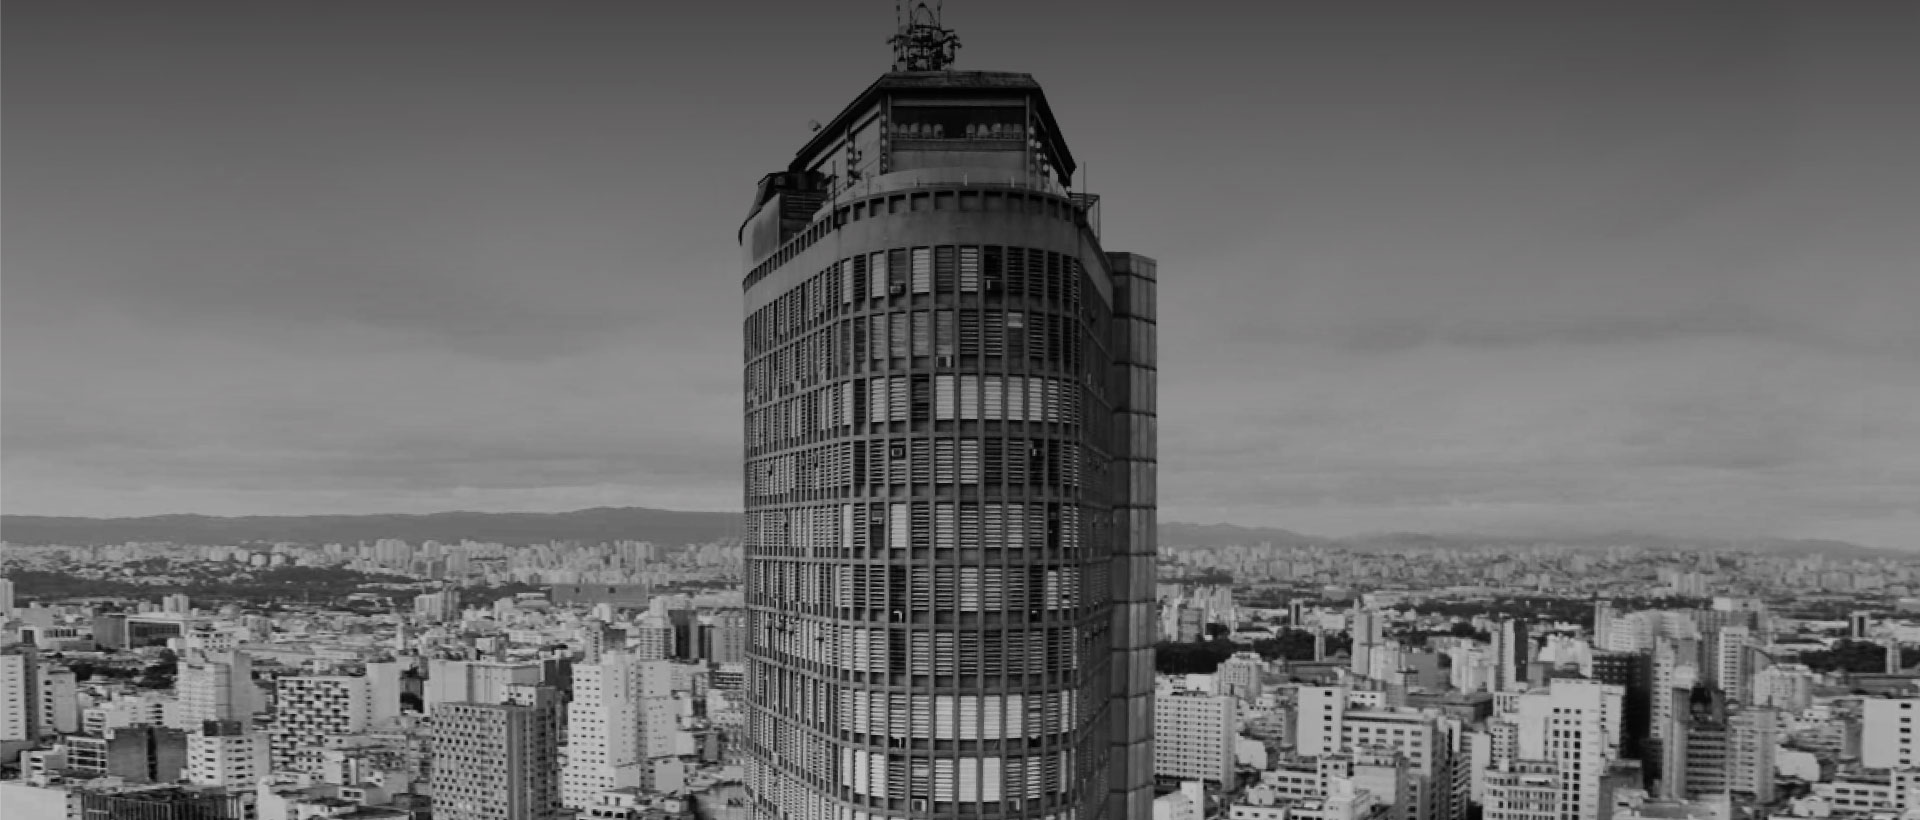
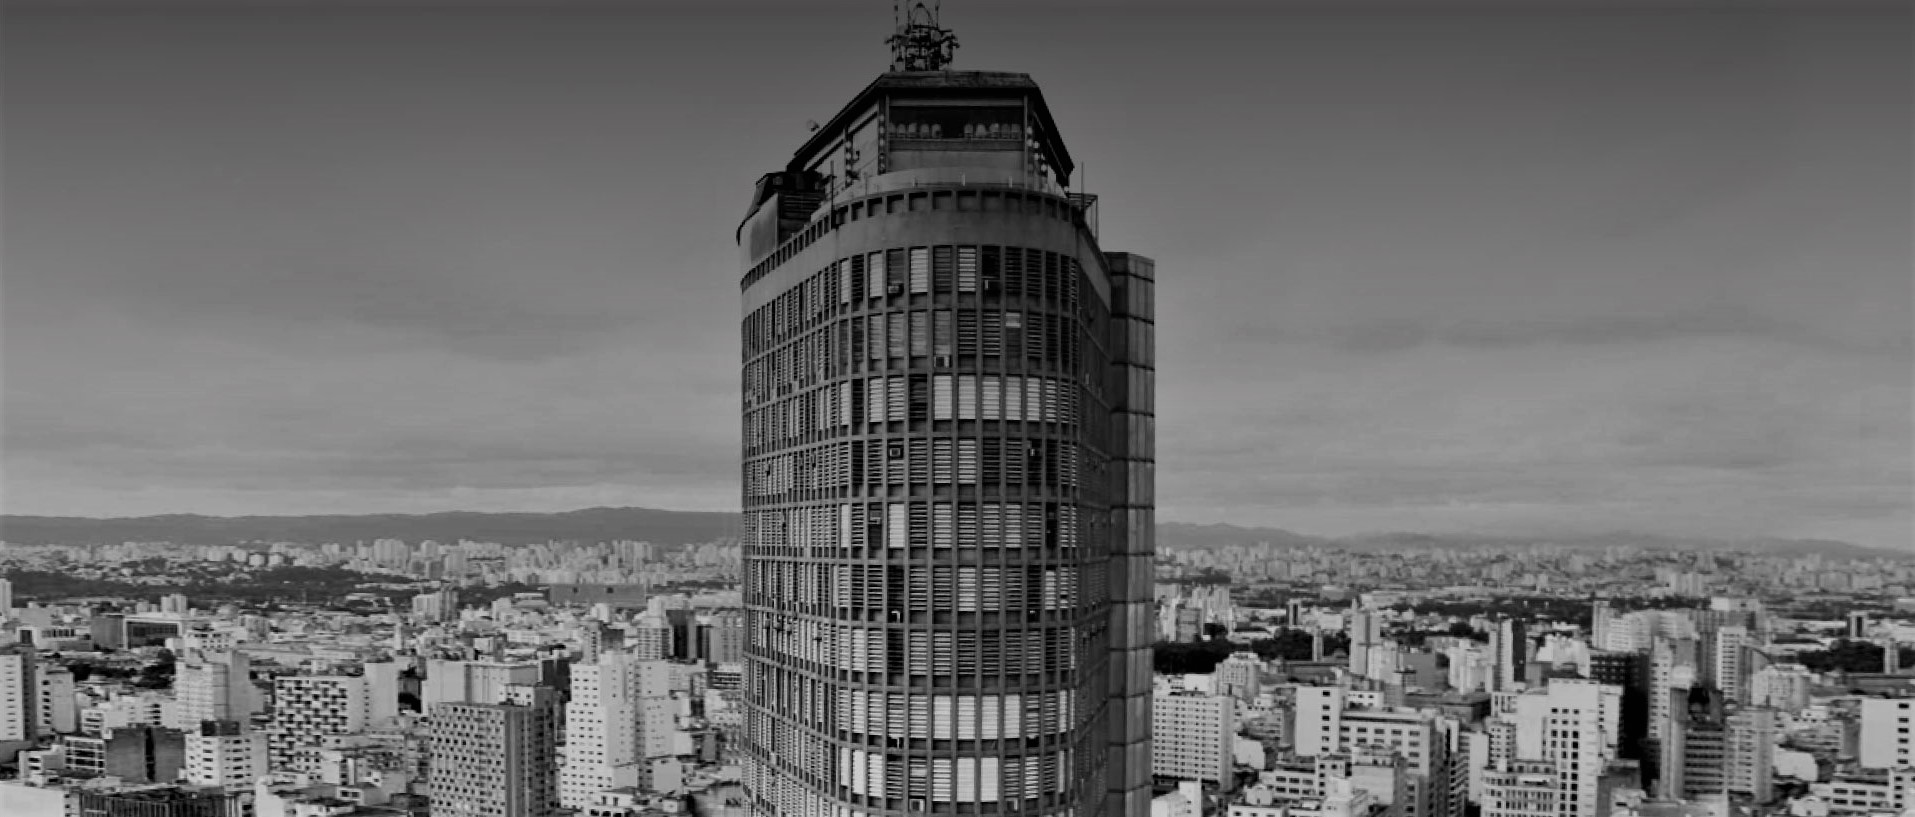
changed image nightlife

Changed region(s): [[0.0, 0.306, 1.0, 1.0]]

diff --git a/style.css b/style.css
@@ -22,7 +22,7 @@ body{
   left: 0;
   right: 0;
   overflow: hidden;
-  height: 8vh;  /* 8.1 if border is removed*/
+  height: 8.1vh;
 }
 
 #masthead nav img{
@@ -47,16 +47,18 @@ body{
   text-decoration: none;
   color: #fffd;
   font-size: 1.4rem;
-  display: block;
-  padding: 100% 1.5rem 100% 1.5rem;
+  padding: 0 1.5rem 0 1.5rem;
+  line-height: 8.1vh;
+  display: inline-block;
 }
 
 #masthead nav a:hover{
   background-color: #000d;
 }
 
-#masthead #iconImg{
-  padding: 100% 1.5rem 100% 1.5rem;
+#masthead #iconImg img{
+  padding: 0.2rem;
+  vertical-align: middle;
 }
 
 #indexCarrosel{
@@ -88,7 +90,7 @@ body{
 }
 
 .nightLifeImg{
-  background-image: url("images/nightLife/StreetAugusta.png");
+  background-image: url("images/nightLife/TerracoItalia.jpg");
 }
 
 .buttonPlus{
@@ -105,7 +107,6 @@ body{
 
 main .indexArticle{
   position: relative;
-  border-top: 1px solid #000; /* was added later*/
 }
 
 main .indexArticle h1{
@@ -115,7 +116,6 @@ main .indexArticle h1{
   padding: 1rem;
   position: absolute;
   bottom: 0;
-  font-weight: bolder;
 }
 
 main .indexArticle .buttonPlus{

diff --git a/index.html b/index.html
@@ -52,5 +52,6 @@
 
     </main>
 
+    <script src="script.Js"></script>
   </body>
 </html>
